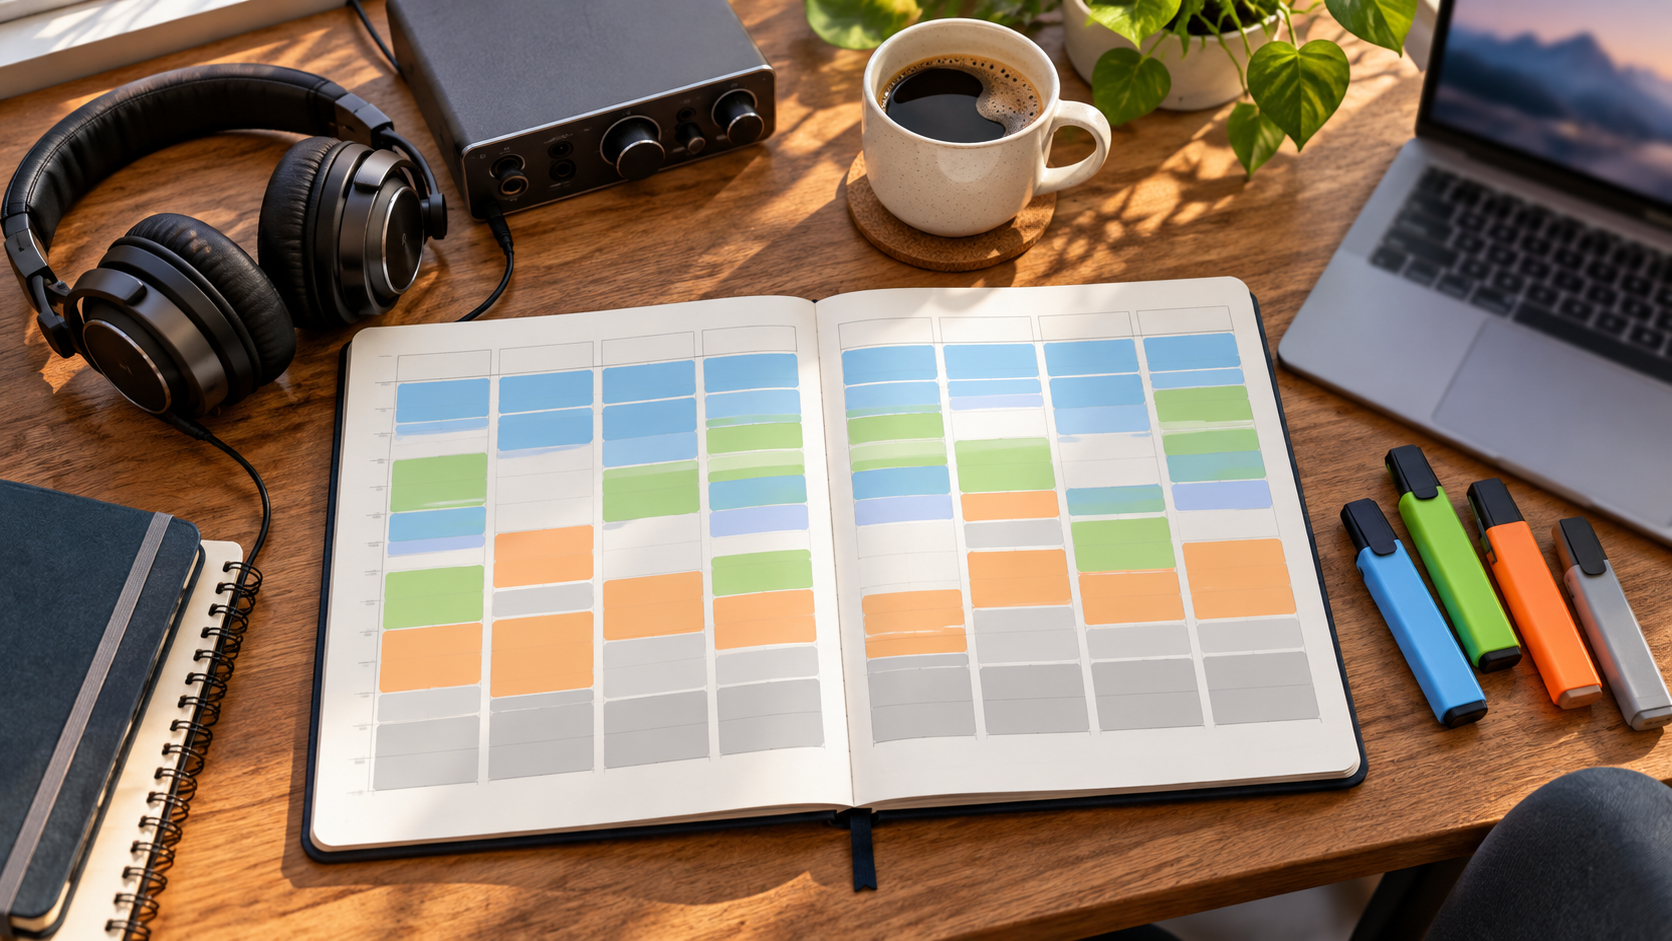
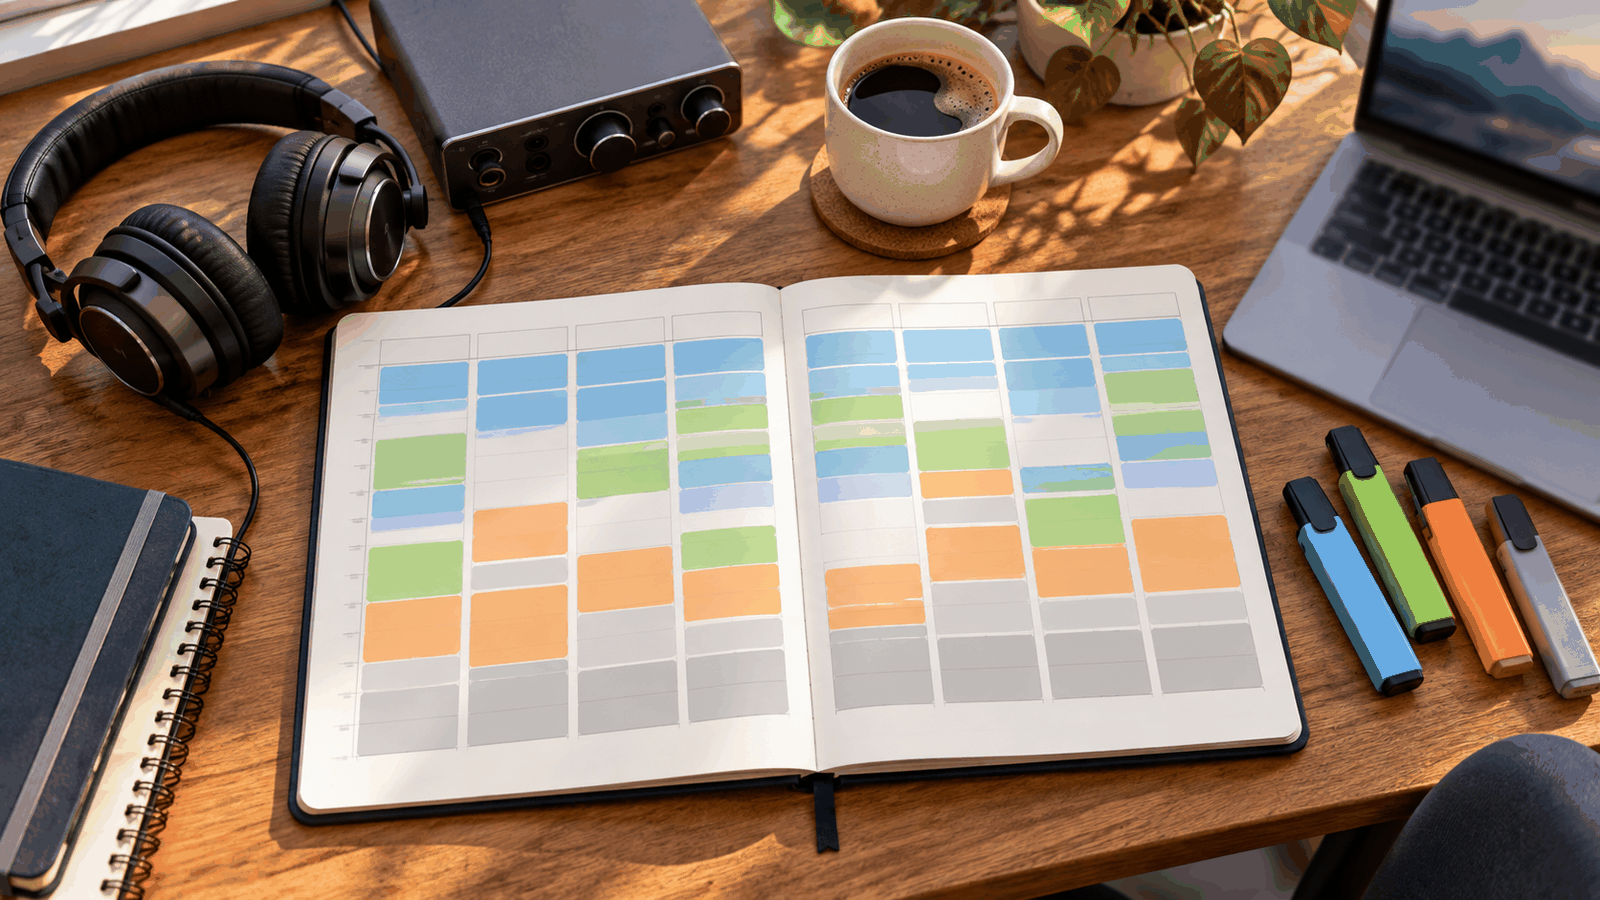
Canvas: 2026-09-24 16:50 - 2 files

diff --git a/Classes/_briefs/ChatGPT Image Prompts - ALL COURSES TO DO.md b/Classes/_briefs/ChatGPT Image Prompts - ALL COURSES TO DO.md
@@ -33,7 +33,7 @@ These images live in Classes/All and show up in every DAPR course through the Bl
 
 Page: Essentials: 1B) How Much Time Your Classes Take
 
-Status: Needs prompt (new figure, no file yet)
+Status: Done 24 September 2026 (saved, resized to 1600 by 900, 0.5 MB). Commit and push.
 
 Where on the page: directly under the "Build the Week in This Order" checklist, before the Tip box. It becomes Figure 2 on the page.
 
